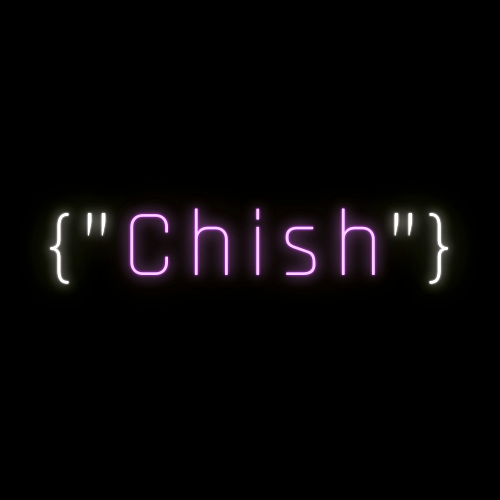
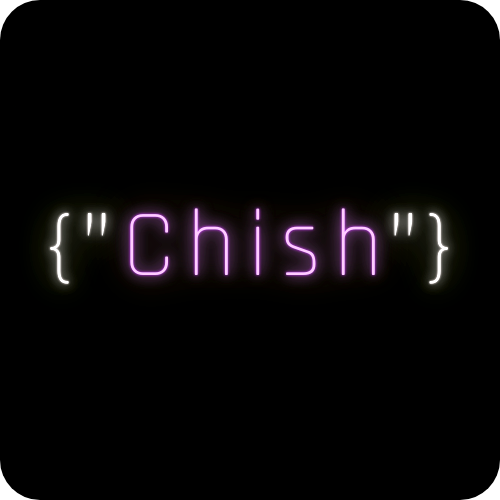
Quartz sync: Apr 10, 2025, 6:26 PM

diff --git a/quartz/components/Footer.tsx b/quartz/components/Footer.tsx
@@ -14,17 +14,9 @@ export default ((opts?: Options) => {
     return (
       <footer class={`${displayClass ?? ""}`}>
         <p>
-          {i18n(cfg.locale).components.footer.createdWith}{" "}
-          <a href="https://github.com/chishxd">GitHub</a>
+          <a href="https://github.com/chishxd">GitHub</a> <a href="www.linkedin.com/in/chinmay-shet0">LinkedIn</a>
         </p>
-        <ul>
-          {Object.entries(links).map(([text, link]) => (
-            <li>
-              <a href={link}>{text}</a>
-            </li>
-          ))}
-        </ul>
-      </footer>
+        </footer>
     )
   }
 

diff --git a/content/index.md b/content/index.md
@@ -4,9 +4,11 @@ aliases:
   - homepage
 tags:
 ---
-
 Welcome to my page dedicated to store all my personal notes for myself and everybody reading it.
+
 Hope this Site will help everyone!
+
+This site HEAVILY under development, I am trying to improve as much as possible.
 
 ## Quick Links
 [[Roadmap for 2nd Unit Test]] <br>